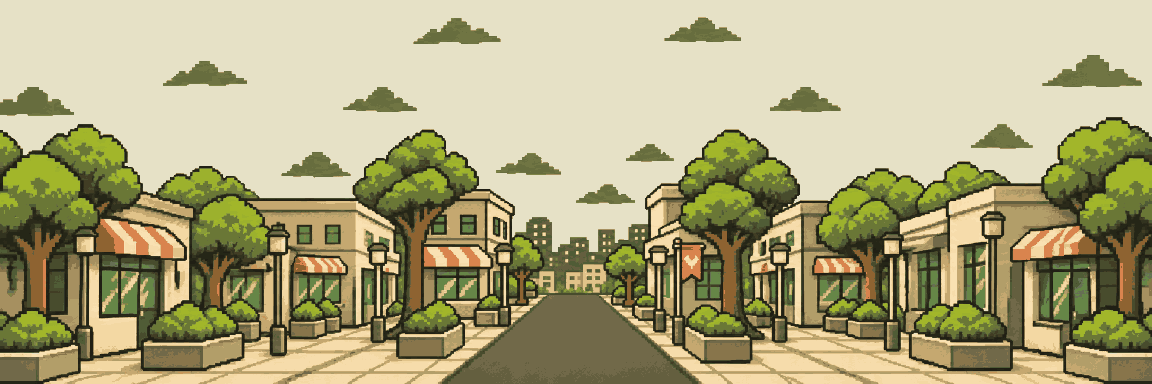
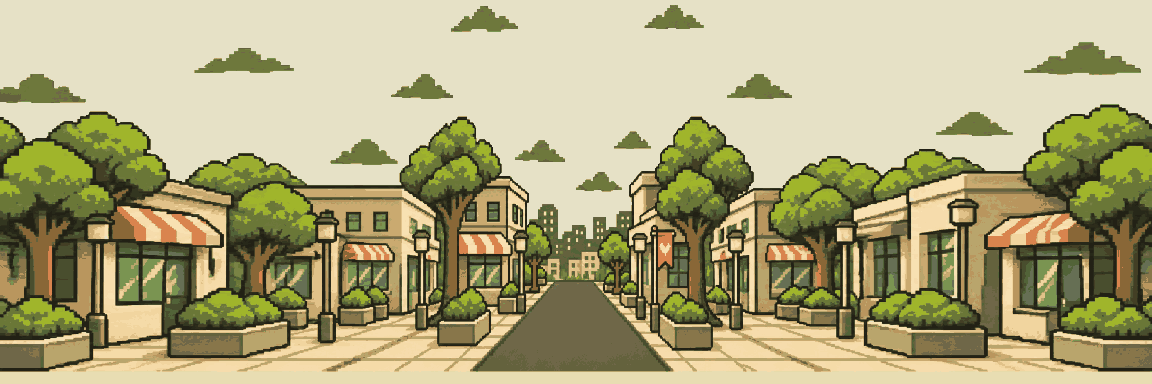
wip: 타이틀 배경 작업 중

diff --git a/css/style.css b/css/style.css
@@ -91,12 +91,12 @@ p {
 
 .title-heading {
   position: absolute;
-  top: max(calc(var(--safe-top) + 24px), clamp(44px, 12dvh, 112px));
+  top: max(calc(var(--safe-top) + 20px), clamp(36px, 9.5dvh, 96px));
   inset-inline: 0;
   display: flex;
   flex-direction: column;
   align-items: center;
-  gap: 14px;
+  gap: 8px;
 }
 
 .title-logo {
@@ -114,9 +114,11 @@ p {
   align-items: center;
   gap: 10px;
   max-width: calc(100% - 24px);
+  padding: 2px 8px;
   color: var(--dark);
+  background: var(--cream);
   font-size: 14px;
-  line-height: 1.8;
+  line-height: 1.6;
   text-align: center;
   white-space: nowrap;
 }
@@ -124,7 +126,7 @@ p {
 .title-subtitle::before,
 .title-subtitle::after {
   content: '';
-  flex: 0 0 14px;
+  flex: 0 0 18px;
   height: 2px;
   background: var(--khaki);
 }
@@ -132,7 +134,7 @@ p {
 .title-hero {
   position: absolute;
   left: 50%;
-  bottom: calc(128px + var(--safe-bottom));
+  bottom: calc(116px + var(--safe-bottom));
   width: 64px;
   height: 128px;
   transform: translateX(-50%);
@@ -147,7 +149,7 @@ p {
 
 .title-hero-shadow {
   position: absolute;
-  inset-inline: -4px;
+  inset-inline: -6px;
   bottom: -2px;
   height: 12px;
   background: var(--dark);
@@ -157,7 +159,7 @@ p {
 .title-actions {
   position: absolute;
   inset-inline: 8px;
-  bottom: calc(36px + var(--safe-bottom));
+  bottom: calc(28px + var(--safe-bottom));
   display: flex;
   justify-content: center;
 }
@@ -167,9 +169,9 @@ p {
   align-items: center;
   justify-content: center;
   gap: 12px;
-  min-height: 60px;
+  min-height: 56px;
   margin: 0;
-  padding: 8px 4px;
+  padding: 8px 6px;
   border: 0;
   border-radius: 0;
   color: var(--orange);
@@ -181,10 +183,15 @@ p {
   letter-spacing: 2px;
   white-space: nowrap;
   text-shadow:
-    -1px 0 var(--dark),
-    1px 0 var(--dark),
-    0 -1px var(--dark),
-    0 1px var(--dark);
+    -2px 0 var(--dark),
+    2px 0 var(--dark),
+    0 -2px var(--dark),
+    0 2px var(--dark),
+    -1px -1px var(--dark),
+    1px -1px var(--dark),
+    -1px 1px var(--dark),
+    1px 1px var(--dark),
+    0 3px var(--dark);
   cursor: pointer;
   touch-action: manipulation;
   -webkit-tap-highlight-color: transparent;

diff --git a/index.html b/index.html
@@ -13,7 +13,7 @@
 <body>
   <!-- 모바일과 PC가 같은 한 장의 거리 배경을 공유한다. -->
   <div class="title-world" aria-hidden="true">
-    <img id="title-world-image" src="./assets/title-scene-v2.png" width="1152" height="384" alt="" fetchpriority="high">
+    <img id="title-world-image" src="./assets/title-bg-surround.png" width="1152" height="384" alt="" fetchpriority="high">
   </div>
 
   <main id="app">

diff --git a/tools/convert-title-v2.py b/tools/convert-title-v2.py
@@ -95,11 +95,60 @@ def flatten_sky(image):
         raise ValueError("Panorama's top edge must match the CSS sky")
 
 
+def reframe_panorama(source):
+    """Bring the central street facades closer to match the portrait mockup framing
+    while seamlessly continuing into the outer wings."""
+    src_w, src_h = source.size
+    center_x = src_w / 2.0
+    out_w, out_h = 1152, 384
+    # Vertical shift (-24px in 724px source, ~13px in 384px output) raises the
+    # street horizon slightly to match the portrait mockup's road proportions.
+    y_shift = round(src_h * 0.033)
+    padded = Image.new("RGB", (src_w, src_h + y_shift), source.getpixel((0, 0)))
+    padded.paste(source, (0, 0))
+    # Map output x in [-576, 576] to source x in [-1086, 1086]:
+    # In the central street zone (|u| <= 0.19, i.e. central 430px at 2x),
+    # sample 1.30x wider so the awnings, chicken banner, lamp posts, and
+    # tree trunks sit comfortably inside the mobile viewport, then ease
+    # smoothly to the outer edges without any seam.
+    u_knot = 0.19
+    s_knot = 0.247
+    strips = []
+    for ox in range(out_w):
+        u = (ox + 0.5 - out_w / 2.0) / (out_w / 2.0)
+        au = abs(u)
+        if au <= u_knot:
+            t = au / u_knot
+            su = s_knot * t
+        else:
+            t = (au - u_knot) / (1.0 - u_knot)
+            # Hermite blend from slope (s_knot / u_knot) to endpoints
+            m0 = (s_knot / u_knot) * (1.0 - u_knot)
+            m1 = 1.0 - s_knot
+            h00 = 2 * t ** 3 - 3 * t ** 2 + 1
+            h10 = t ** 3 - 2 * t ** 2 + t
+            h01 = -2 * t ** 3 + 3 * t ** 2
+            h11 = t ** 3 - t ** 2
+            su = s_knot * h00 + m0 * h10 + 1.0 * h01 + m1 * h11
+        if u < 0:
+            su = -su
+        sx = center_x + su * (src_w / 2.0)
+        x0 = max(0, min(src_w - 2, int(sx - 1)))
+        x1 = min(src_w, max(x0 + 1, int(sx + 1)))
+        col = padded.crop((x0, y_shift, x1, src_h + y_shift)).resize(
+            (1, out_h), Image.Resampling.BOX)
+        strips.append(col)
+    small = Image.new("RGB", (out_w, out_h))
+    for ox, col in enumerate(strips):
+        small.paste(col, (ox, 0))
+    return small
+
+
 def convert_scene():
     source = Image.open(RAW / "title-panorama-v2-source.png").convert("RGB")
     if abs(source.width / source.height - 3) > 0.01:
         raise ValueError("Panorama must retain its 3:1 framing")
-    small = source.resize((1152, 384), Image.Resampling.BOX)
+    small = reframe_panorama(source)
     flatten_sky(small)
     reserved = (CREAM, KHAKI, DARK, ORANGE)
     samples = [p for p in small.get_flattened_data() if p != CREAM]
@@ -107,8 +156,8 @@ def convert_scene():
     output = small.quantize(palette=palette_image(colors), dither=Image.Dither.NONE)
     if len(output.getcolors(256)) > 32 or "transparency" in output.info:
         raise ValueError("Panorama must stay opaque and <=32 colors")
-    output.save(ROOT / "assets" / "title-scene-v2.png", optimize=True)
-    print(f"assets/title-scene-v2.png: 1152x384, {len(output.getcolors(256))} colors, opaque")
+    output.save(ROOT / "assets" / "title-bg-surround.png", optimize=True)
+    print(f"assets/title-bg-surround.png: 1152x384, {len(output.getcolors(256))} colors, opaque")
 
 
 if __name__ == "__main__":
